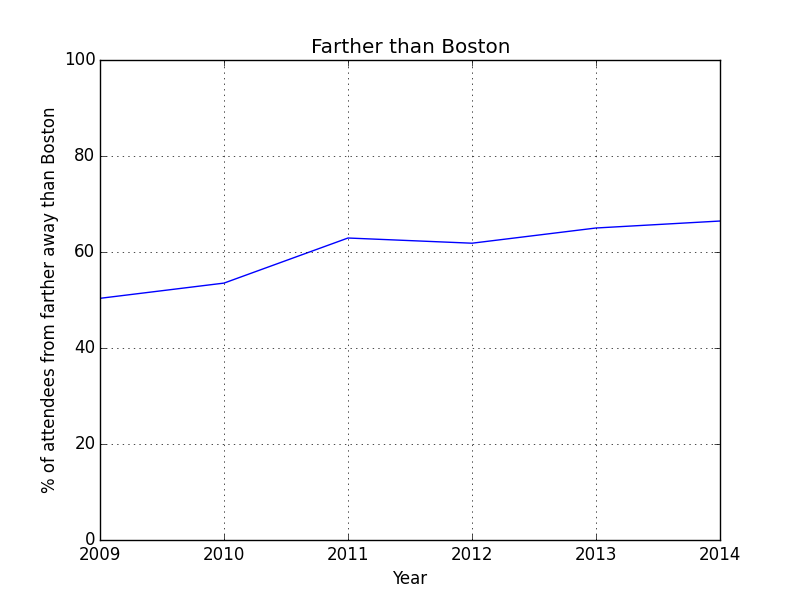
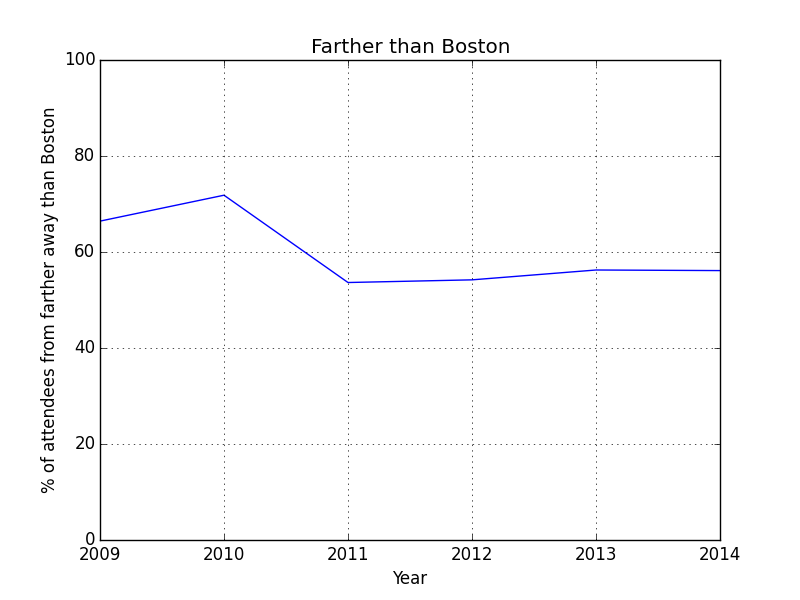
Bunch of fixes, plus two silly charts.

diff --git a/results/results.html b/results/results.html
@@ -22,66 +22,66 @@
     </tr>
     <tr>
       <th>mean</th>
-      <td>  400.642980</td>
-      <td>  370.212821</td>
-      <td>  421.693230</td>
-      <td>  442.019972</td>
-      <td>  362.101171</td>
-      <td>  437.143499</td>
+      <td>  366.596900</td>
+      <td>  346.489308</td>
+      <td>  384.655220</td>
+      <td>  387.077113</td>
+      <td>  341.042643</td>
+      <td>  372.573675</td>
     </tr>
     <tr>
       <th>std</th>
-      <td>  867.060290</td>
-      <td>  826.451839</td>
-      <td>  834.659650</td>
-      <td>  872.672397</td>
-      <td>  669.471628</td>
-      <td>  996.310436</td>
+      <td>  605.780514</td>
+      <td>  573.756777</td>
+      <td>  606.369503</td>
+      <td>  633.917975</td>
+      <td>  497.029360</td>
+      <td>  671.629435</td>
     </tr>
     <tr>
       <th>min</th>
-      <td>   13.973504</td>
-      <td>   17.684683</td>
-      <td>   18.085866</td>
-      <td>   10.223100</td>
-      <td>   10.223100</td>
-      <td>   18.085866</td>
+      <td>   17.589323</td>
+      <td>   22.884618</td>
+      <td>   31.253593</td>
+      <td>   29.297367</td>
+      <td>   28.290301</td>
+      <td>   31.253593</td>
     </tr>
     <tr>
       <th>25%</th>
-      <td>   38.927170</td>
-      <td>   54.353676</td>
-      <td>   94.295405</td>
-      <td>   94.295405</td>
-      <td>   94.471544</td>
-      <td>   94.471544</td>
+      <td>   80.844854</td>
+      <td>   93.031078</td>
+      <td>   96.940357</td>
+      <td>  100.566838</td>
+      <td>  104.615746</td>
+      <td>  102.538040</td>
     </tr>
     <tr>
       <th>50%</th>
-      <td>  111.086094</td>
-      <td>  111.805775</td>
-      <td>  118.984957</td>
-      <td>  118.371740</td>
-      <td>  118.984957</td>
-      <td>  118.984957</td>
+      <td>  124.412162</td>
+      <td>  139.168606</td>
+      <td>  137.683749</td>
+      <td>  123.204021</td>
+      <td>  161.509339</td>
+      <td>  123.204021</td>
     </tr>
     <tr>
       <th>75%</th>
-      <td>  221.294445</td>
-      <td>  219.639152</td>
-      <td>  301.324543</td>
-      <td>  304.876945</td>
-      <td>  306.079716</td>
-      <td>  262.344320</td>
+      <td>  277.224496</td>
+      <td>  277.224496</td>
+      <td>  371.726401</td>
+      <td>  374.739526</td>
+      <td>  373.016253</td>
+      <td>  251.311167</td>
     </tr>
     <tr>
       <th>max</th>
-      <td> 5389.651404</td>
-      <td> 5389.651404</td>
-      <td> 3438.838885</td>
-      <td> 3435.685257</td>
-      <td> 3444.481575</td>
-      <td> 5383.700200</td>
+      <td> 3333.847976</td>
+      <td> 3333.847976</td>
+      <td> 2596.009974</td>
+      <td> 2596.219829</td>
+      <td> 2596.219829</td>
+      <td> 3344.356039</td>
     </tr>
   </tbody>
 </table>

diff --git a/rebuild.py b/rebuild.py
@@ -21,6 +21,7 @@ f_w_coords = ['-72.73', '43.53']
 to_bos = 109
 to_nyc = 189.7
 to_chi = 761.4
+to_noatak = 3508.6
 
 
 def get_distance(lat_a, long_a, lat_b, long_b):
@@ -42,8 +43,8 @@ def calculate_distance(row):
     ydw_coords = weston_coords if row['year'] in range(2011, 2015) else f_w_coords
 
     return get_distance(
-        float(row["long"]), float(row["lat"]),
-        float(ydw_coords[0]), float(ydw_coords[1])
+        float(row["lat"]), float(row["long"]),
+        float(ydw_coords[1]), float(ydw_coords[0])
     )
 
 
@@ -115,9 +116,11 @@ def main():
 
     # FARTHER THAN CHARTS
     # ===================
+    make_farther_than_chart("Weston", 0, "farther_than_weston", data)
     make_farther_than_chart("NYC", to_nyc, "farther_than_nyc", data)
     make_farther_than_chart("Boston", to_bos, "farther_than_bos", data)
     make_farther_than_chart("Chicago", to_chi, "farther_than_chi", data)
+    make_farther_than_chart("Noatak National Preserve (Alaska)", to_noatak, "farther_than_noatak", data)
 
     # GEOJSON FILES
     # =============
@@ -128,12 +131,12 @@ def main():
             "type": "FeatureCollection",
         }
 
-        features = [row[1:4] for row in data[year].itertuples()]
+        features = [row[1:] for row in data[year].itertuples()]
         featureCollection["features"] = []
         # collections.Counter lets us cluster by zip code center
         for row, count in collections.Counter(features).iteritems():
             # If no lat, do not include in GeoJSON file
-            if pandas.isnull(row[1]):
+            if pandas.isnull(row[0]):
                 continue
             featureCollection['features'].append({
                 "type": "Feature",
@@ -143,6 +146,7 @@ def main():
                 },
                 "properties": {
                     "marker-symbol": count if count > 1 else None,
+                    "title": "Distance: {} miles".format(row[3])
                 }
             })
 
